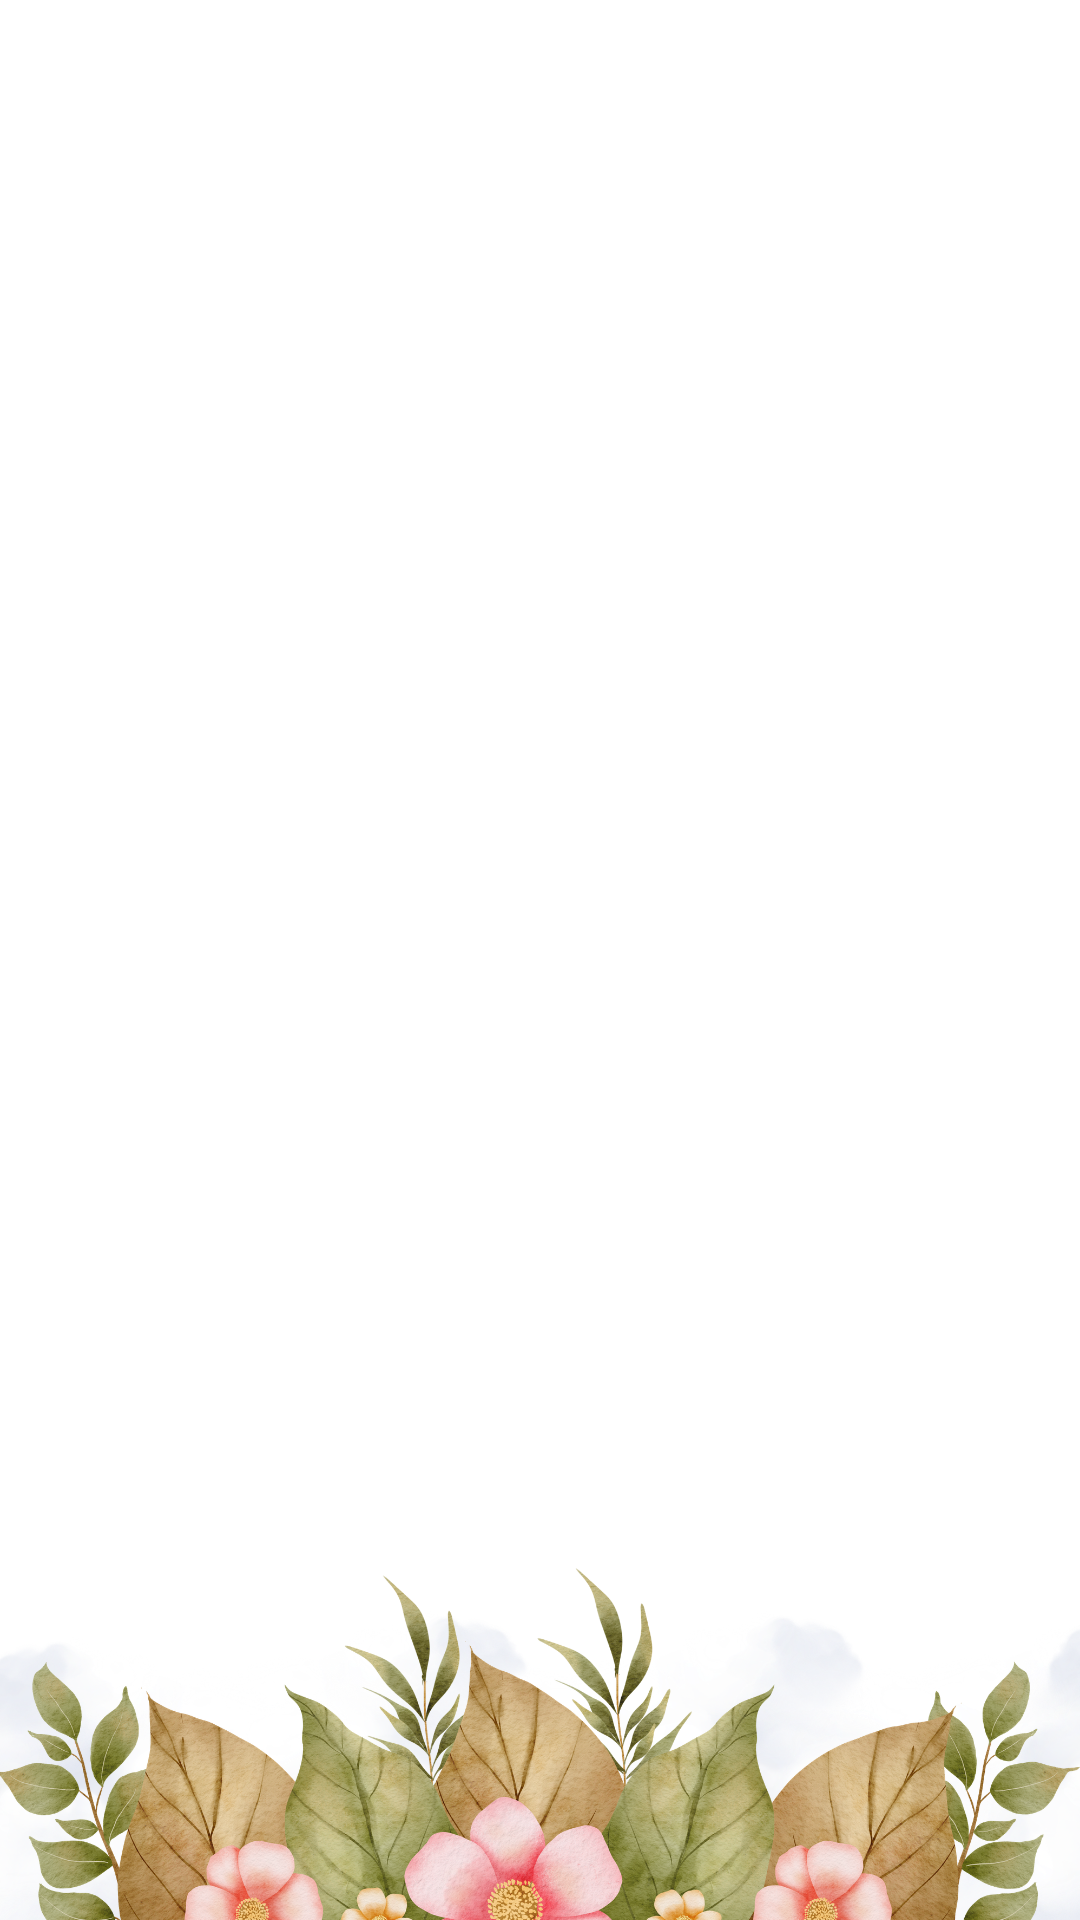
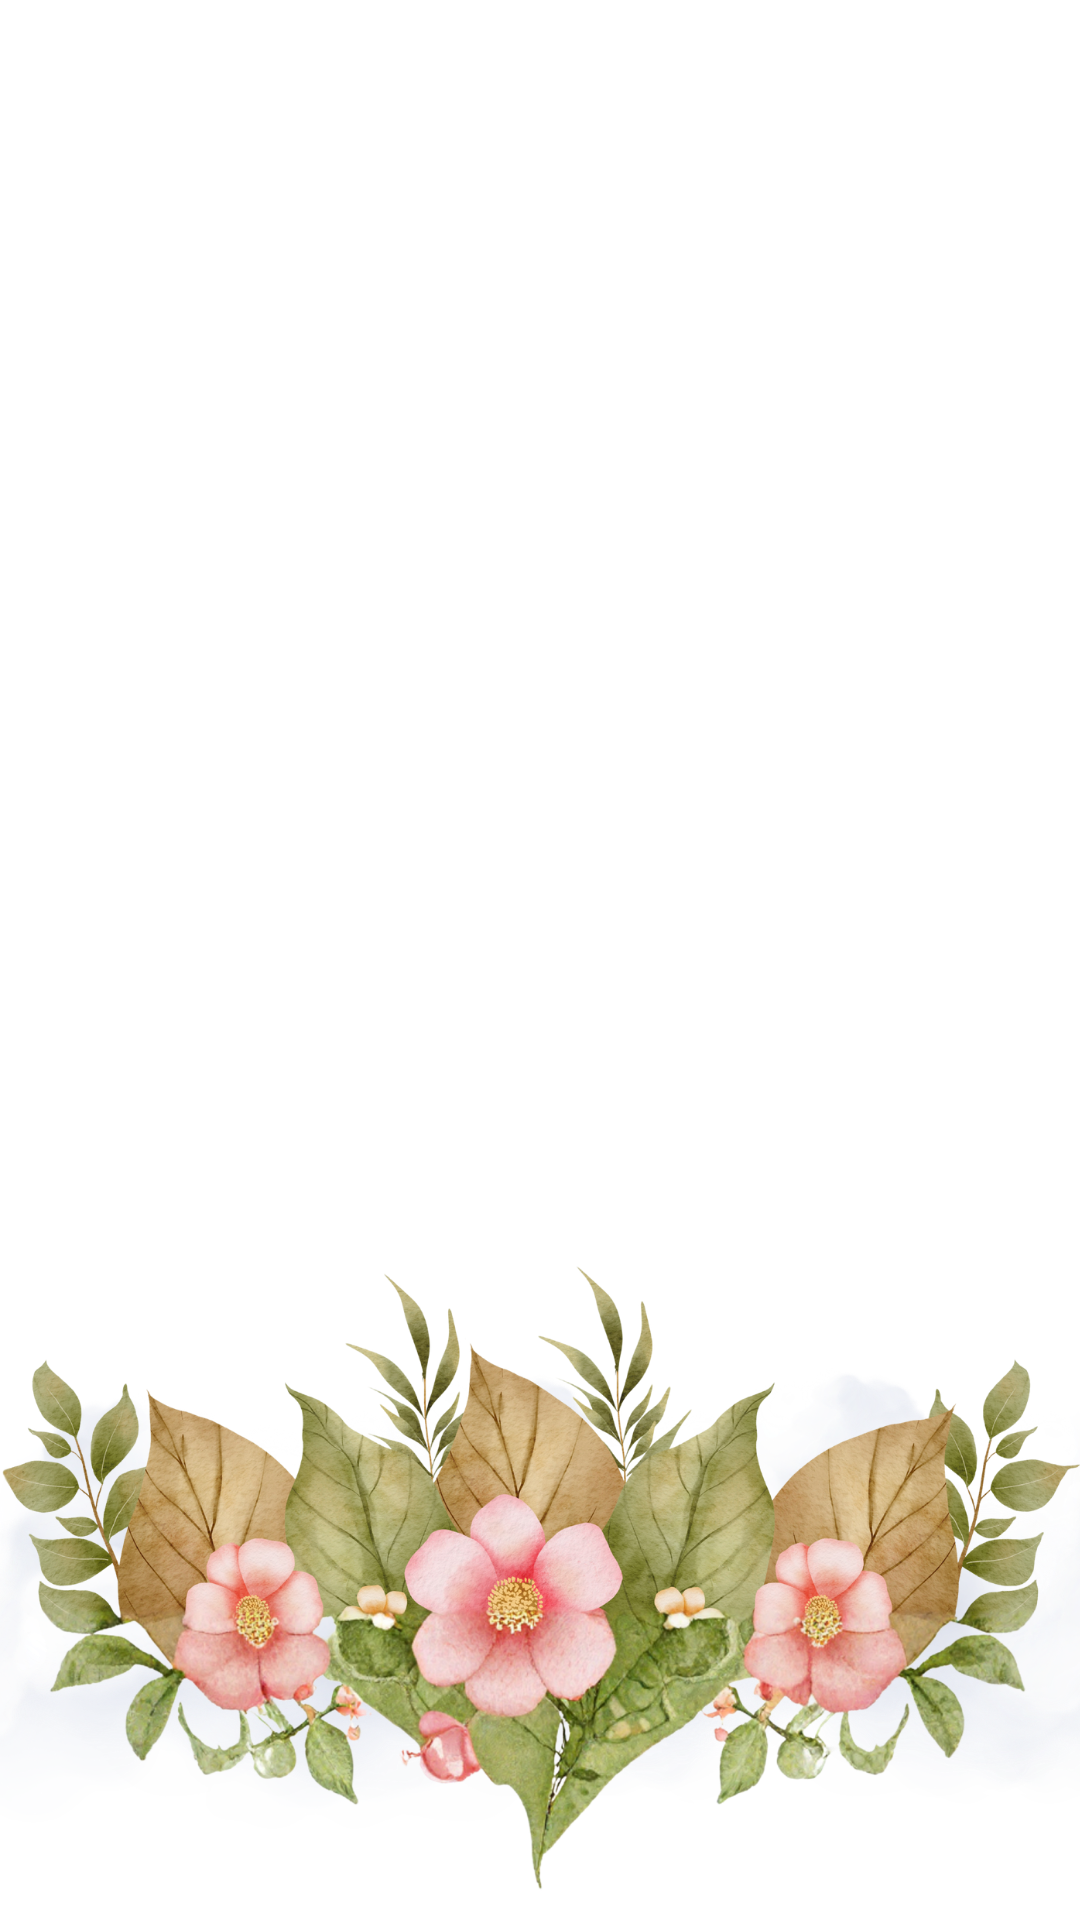
Remove extra vertical gap below flower bouquet in hero section

Changed region(s): [[0.0, 0.6562, 1.0, 1.0]]

diff --git a/src/components/HeroSection.css b/src/components/HeroSection.css
@@ -26,7 +26,7 @@
 
 /* Couple Image with Floral Frame */
 .hero-couple {
-  margin: 20px auto 28px;
+  margin: 15px auto 0;
   max-width: 340px;
 }
 
@@ -36,7 +36,7 @@
   flex-direction: column;
   align-items: center;
   justify-content: center;
-  padding-bottom: 35px;
+  padding-bottom: 0;
 }
 
 .couple-img {
@@ -45,11 +45,12 @@
   height: auto;
   position: relative;
   z-index: 1;
+  margin-bottom: 30px;
 }
 
 .flowers-bg {
   position: absolute;
-  bottom: 70px;
+  bottom: 0;
   left: 50%;
   transform: translateX(-50%);
   width: 120%;
@@ -61,6 +62,7 @@
 
 /* Lead */
 .hero-lead {
+  margin-top: 8px;
   margin-bottom: 28px;
 }
 
